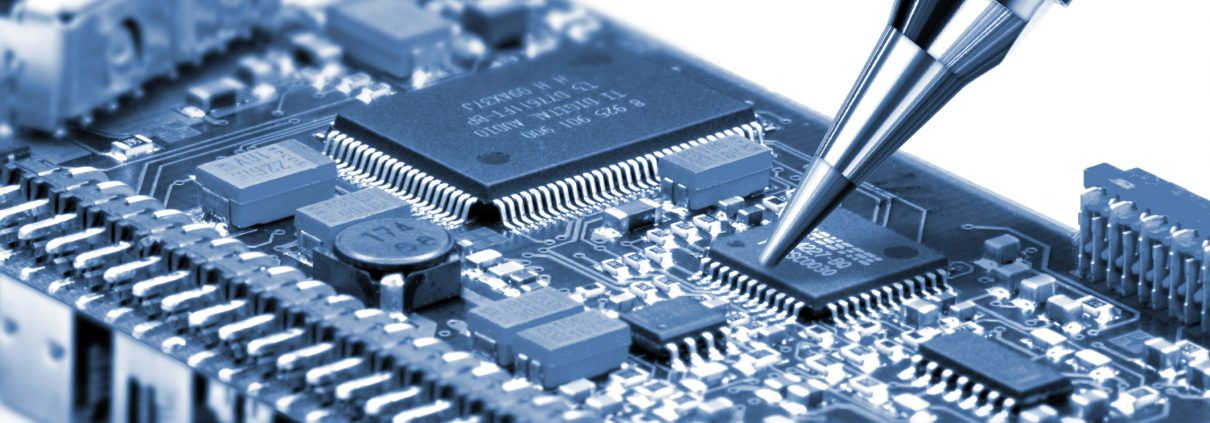
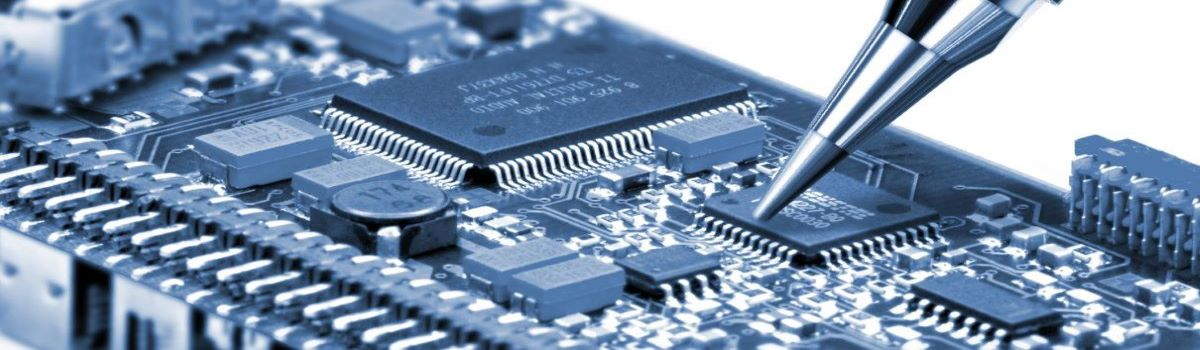
Drugi commit

diff --git a/css/style.css b/css/style.css
@@ -57,7 +57,7 @@ html {
 }
 .tata {
   display: flex;
-  aspect-ratio: 1200 / 423;
+  aspect-ratio: 1200 / 350;
 }
 .open_content {
   display: flex;
@@ -214,7 +214,7 @@ html {
 .form {
   display: flex;
   width: 50%;
-  height: 80vw;
+  height: fit-content;
   padding: 1vh 1vw;
 }
 
@@ -261,9 +261,15 @@ input.txt {
   align-items: center;
 }
 
-#contact {
+#contact{
   display: flex;
+  flex-direction: column;
   align-items: center;
+}
+#contact > p{
+  padding: 3vw 2vw;
+  font-size: 1.8vw;
+  font-weight: 550;
 }
 
 label {
@@ -346,7 +352,7 @@ body {
   background-image: linear-gradient(135deg, #cd2a2a, #f11818ed);
 }
 
-.usluga {
+.usluga{
   width: 20rem;
   height: fit-content;
   margin: 0;
@@ -355,18 +361,18 @@ body {
   background-color: transparent;
 }
 
-.usluga > h4 {
+.usluga > h4{
   text-align: center;
   padding-top: 1rem;
-  font-size: 4vw;
+  font-size: 2rem;
 }
-.uslugeTxt {
+.uslugeTxt{
   visibility: visible;
   height: fit-content;
   margin: 0rem 1rem 1rem 1rem;
   transition: cubic-bezier(0.075, 0.82, 0.165, 1);
   transition-duration: 10ms;
-  font-size: 1vw;
+  font-size: 1rem;
   font-weight: 550;
   font-style: italic;
 }
@@ -389,6 +395,31 @@ body {
   font-weight: 550;
   font-size: 6vw;
 }
+
+.kratko_o_nama{
+  padding: 0 3vw;
+  display: flex;
+  flex-direction: row;
+  height: fit-content;
+  text-align: center;
+  font-size: larger;
+}
+
+#dugme{
+  display: flex;
+  padding: 3vw;
+  align-items: center;
+  justify-content: center;
+}
+
+#text{
+  width: 70%;
+}
+
+#text > p{
+  padding-top: 3vw;
+}
+
 
 @media (max-width: 730px) {
   .navbar_menu {

diff --git a/index.html b/index.html
@@ -59,6 +59,16 @@
             <p class="uslugeTxt hidden">Lorem ipsum dolor sit amet, consectetur adipisicing elit. Nisi dolore, architecto reiciendis facere illo assumenda ipsum, est, ratione eos commodi deserunt? Nobis accusamus molestias quae rerum illum amet? Harum, numquam.
             Voluptas aut et, deserunt, velit dignissimos repellendus libero labore magnam nostrum inventore obcaecati exercitationem hic corrupti molestias dolore unde modi distinctio. Nam porro maiores saepe facere impedit modi quod delectus.</p>
         </div>
+        <div class="kratko_o_nama">
+            <div id="text">
+            <h2><b><i>Kratko o nama</i></b></h2>
+            <p>Lorem ipsum dolor sit, amet consectetur adipisicing elit. Placeat delectus, voluptatem dolorum non molestiae architecto excepturi. Excepturi nobis placeat sapiente voluptates fugiat. Id optio magni et sunt voluptatem ipsum at. Lorem ipsum dolor sit amet consectetur adipisicing elit. Asperiores harum animi accusantium alias dolores quibusdam id assumenda mollitia sit libero voluptate, quam sunt minima. Est commodi ad cumque quas labore! Lorem ipsum dolor, sit amet consectetur adipisicing elit. Ipsum perspiciatis quae sit repudiandae ex non nesciunt vero neque voluptatem ullam, a enim commodi magni ratione dolorum fuga nam iste molestiae.</p>
+        </div>
+        <div id="dugme">
+        <a href="kontakt.html"><button class="button">Kontaktirajte nas!</button></a>
+    </div>
+    </div>
+
     </div>
     
 

diff --git a/kontakt.html b/kontakt.html
@@ -26,7 +26,7 @@
                 </div>
         </div>
     </nav>
-    <div class="tata" style="background-image: url('img/slika_2.jpg'); background-size: 100%; background-repeat: no-repeat;">
+    <div class="tata" style="background-image: url('img/slika2.jpg'); background-size: 100%; background-repeat: no-repeat;">
         <div class="open_content">
             
         <h1 class="title">Kontakt</h1>
@@ -66,6 +66,7 @@
     </div>
     <div id="contact">
         <img id="contactpic" src="img/telefon.png" alt="picture">
+    <p>Lorem ipsum dolor sit amet, consectetur adipisicing elit. Voluptatum ullam architecto deserunt, libero amet fugit dolorem ex distinctio. Perferendis aspernatur dolorum deserunt rerum? A ipsum sequi eligendi quidem! Laborum, Lorem, ipsum dolor sit amet consectetur adipisicing elit. Fugit earum, praesentium dolorum distinctio voluptatum nihil. Odit fuga autem nihil neque vero officia impedit reprehenderit! Architecto numquam hic voluptatem quos non.</p>
     </div>
 </div>
     <div class="footer">

diff --git a/cenovnik.html b/cenovnik.html
@@ -29,7 +29,7 @@
     <div
       class="tata"
       style="
-        background-image: url('img/slika_3.jpg');
+        background-image: url('img/slika3.jpg');
         background-size: 100%;
         background-repeat: no-repeat;
       "

diff --git a/o_nama.html b/o_nama.html
@@ -29,7 +29,7 @@
     <div
       class="tata"
       style="
-        background-image: url('img/slika_4.jpg');
+        background-image: url('img/slika4.jpg');
         background-size: 100%;
         background-repeat: no-repeat;
       "
